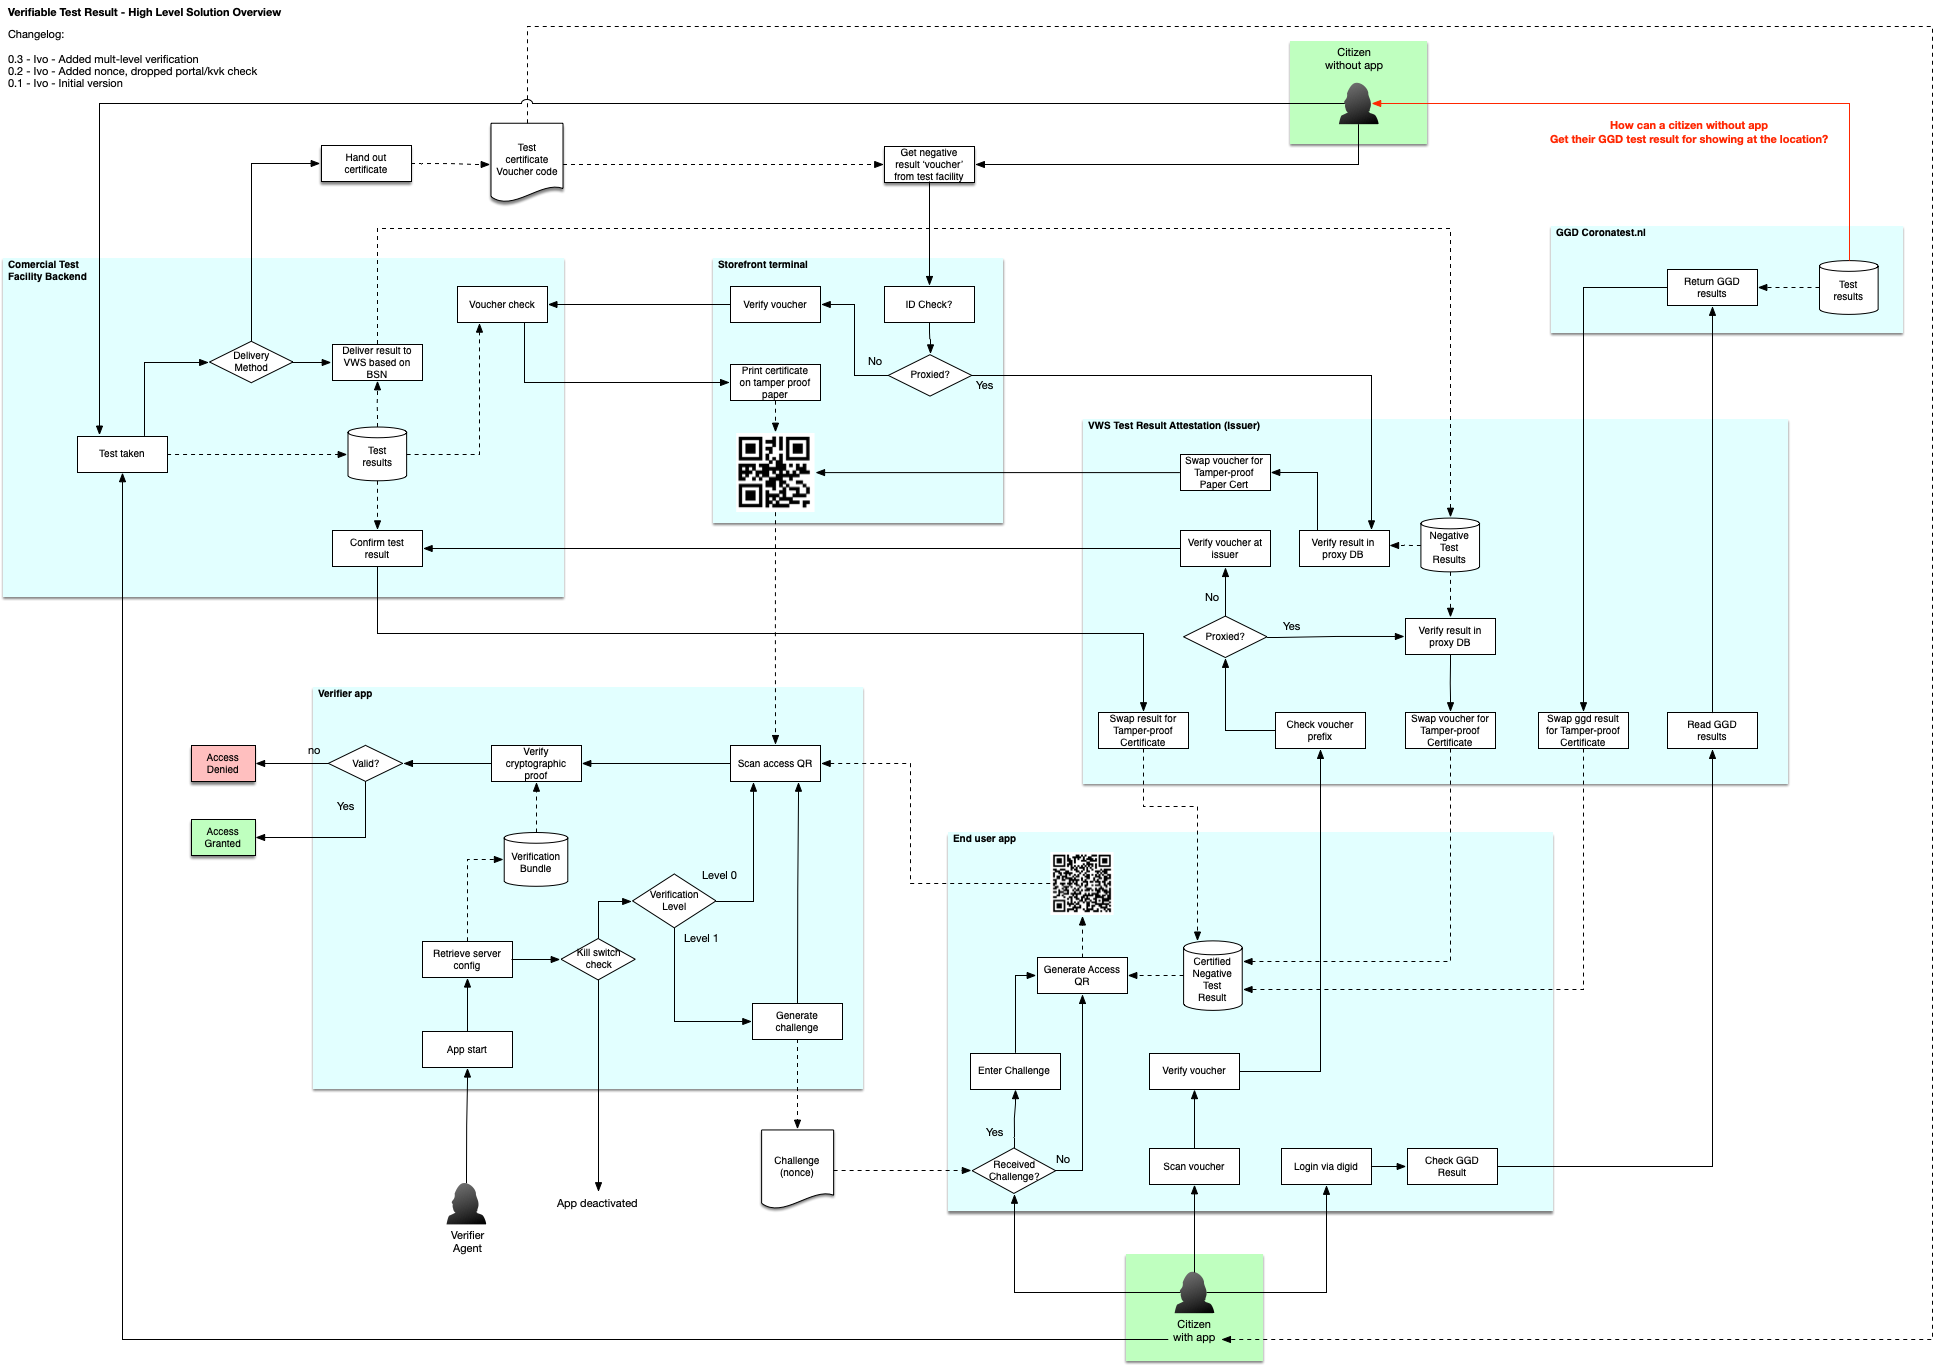
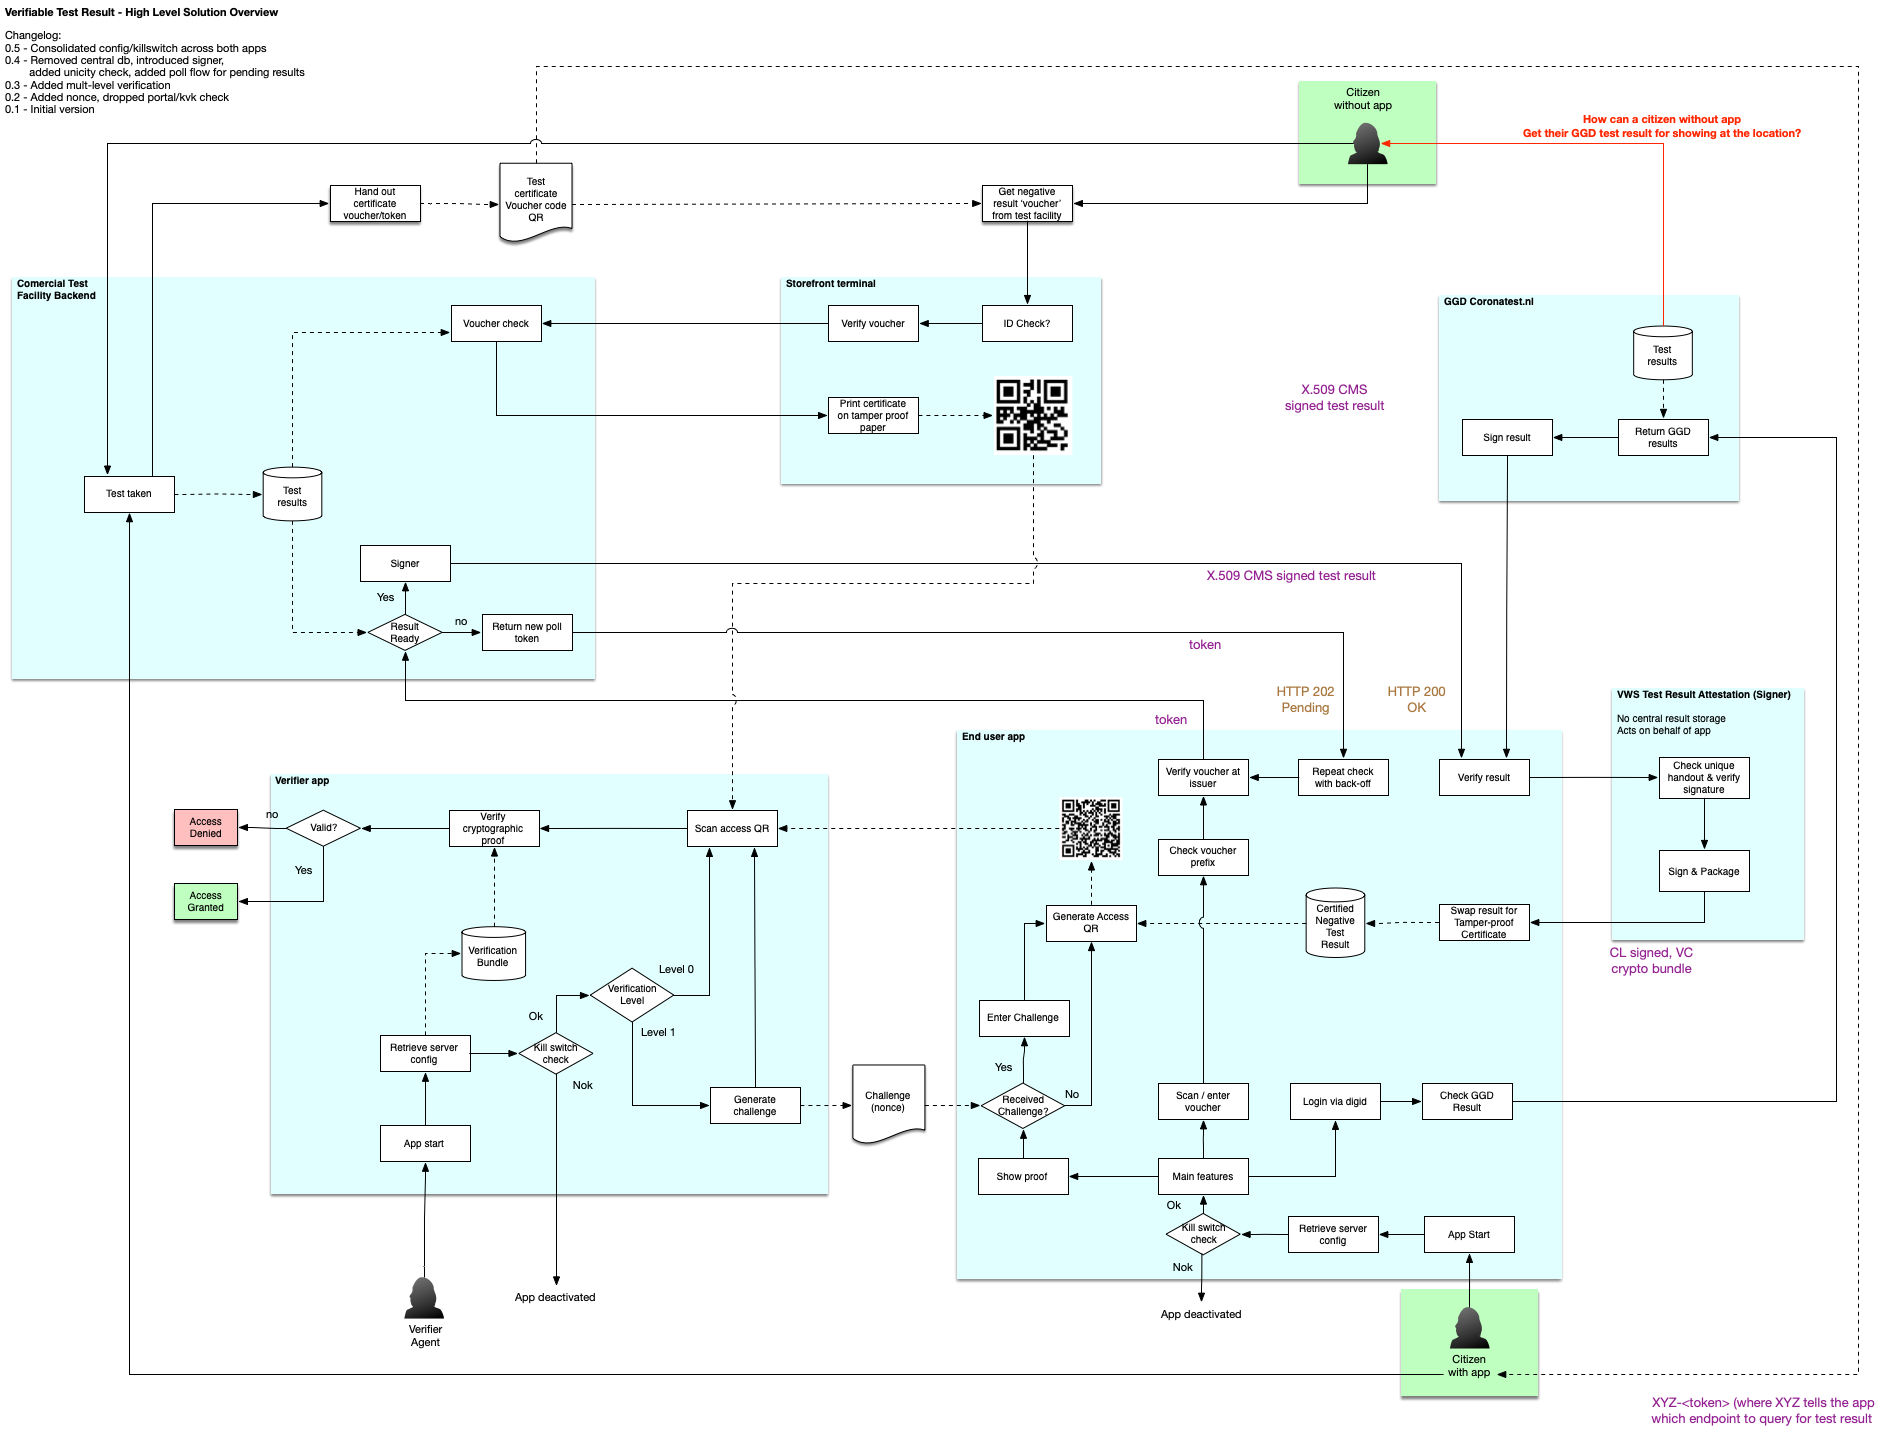
Solution architecture update (0.2)

diff --git a/architecture/Solution Architecture VTR.md b/architecture/Solution Architecture VTR.md
@@ -1,7 +1,7 @@
 # COVID-19 CoronaTester Verifiable Test Result - Solution Architecture
 
 
-**Version:** 0.1 (Work in Progress)
+**Version:** 0.2 (Work in Progress)
 
 # Introduction
 
@@ -123,7 +123,7 @@ For the app we follow a Privacy by Design approach. This means:
 
 ## Open Source
 
-All source code will be made available on the Ministry's GitHub account.
+All source code will be made available on the [Ministry's GitHub account](https://github.com/minvws).
 
 # High Level Architecture
 
@@ -178,13 +178,21 @@ This chapter describes the core flow that we are following, which is derived fro
 
 ## Flow 1: Retrieving a GGD test result 
 
-The following diagram describes how the solution would retrieve a **negative** test result from a GGD test (positive results are not relevant to the solution), and convert it to a verifiable test result.
+The following diagram describes how the solution would retrieve a **negative** test result from a GGD test (positive results are not relevant to the solution), and convert it to a verifiable test result. For GGD test results we can use a digid authentication mechanism. 
 
 ![Flow - GGD Result](images/flow-ggd-result.png)
 
-## Flow x
+## Flow 2: Retrieving a third party test result
 
-TODO.
+The following diagram describes what the flow looks like for third parties where we can't retrieve the test result via BSN/Digid check. 
+
+![Flow - Third Party Result](images/test-result-provisioning.png)
+
+In this scenario the digid login has been replaced by a token mechanism. A user might still have to login (via digid or otherwise) at the test provider, to obtain access to the necessary token.
+
+The following diagram details how this token flow works in detail. Note that the 'login on the test provider site' is just an example, as how this part of the flow works is entirely up to the test provider.
+
+![Flow - Third Party Result](images/flow-testparty-result.png)
 
 # System Landscape
 
@@ -283,7 +291,7 @@ The definition of the Public API can be found in the [API Swagger Files](api/) (
 
 ## Verifiable Results API (vrapi)
 
-The Resul API is the API that vendors should implement in order for us to get (a verification of) test results.
+The Result API is the API that vendors should implement in order for us to get (a verification of) test results. A specification of this API can be [found here](https://github.com/minvws/nl-covid19-coronatester-app-coordination/blob/main/docs/providing-test-results.md)
 
 ## Workers
 
@@ -322,3 +330,9 @@ Apps run on the user’s device and updates require a review process that is not
 * Configuration values or content that are expected to change should be retrieved from a server.
 
 * Apps should offer a ‘forced upgrade’ (i.e. if a new version is available that fixes a critical bug, it should be possible to force the user to upgrade). 
+
+# Changelog
+
+0.2 - Updated flow diagrams, added third party test result collection. 
+0.1 - initial draft
+
